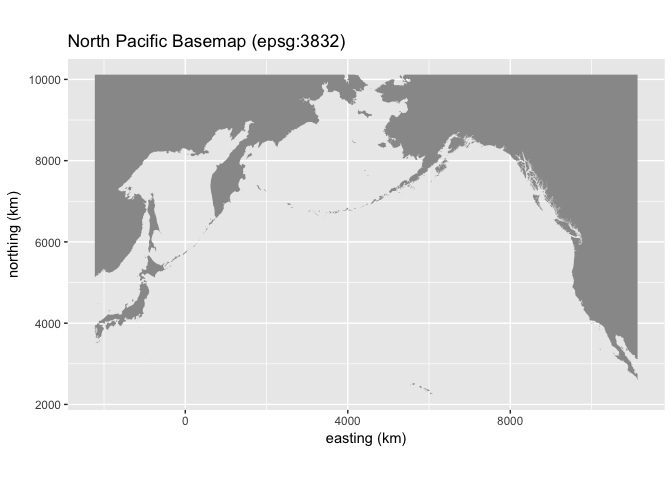
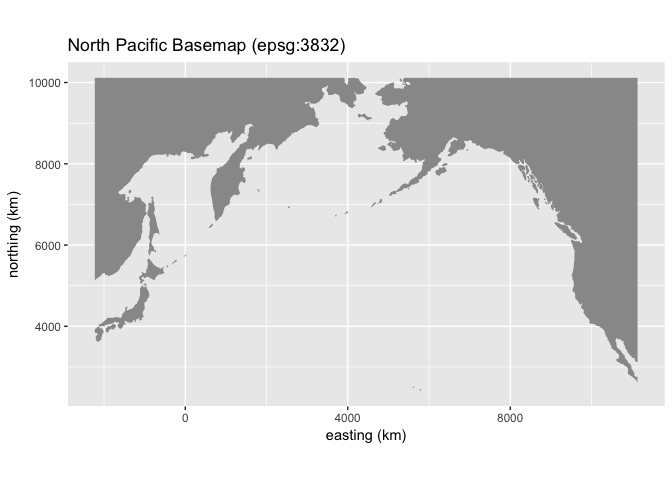
ADD SF SUPPORT; SIMPLIFY AS DEFAULT
added the option to return an sf (simple features) object. Also now rely on the rmapshaper package to simplify the returned output for better performance.

diff --git a/README.md b/README.md
@@ -59,6 +59,11 @@ Fortify for ggplot2
 
 By default all of the basemap objects are returned as a `data.frame` that has been *fortified* via the `broom::tidy()` function. If you would like, instead, for the object to be returned as a *SpatialPolygonsDataFrame* for use with `plot()` or `sp::spplot()` then the `fortify` parameter should be specified as `FALSE`.
 
+Simplified for Improved Performance
+-----------------------------------
+
+The `rmapshaper::ms_simplify` function is applied to the returned objects by default. This improves performance for plotting and should suffice for most users. However, the original integrity of the GSHHG data will be changed. Any uses of `nPacMaps` for analytical purposes (e.g. calculating distance to shoreline, least-cost path creation around land) should consider whether passing `simplify=FALSE` would be more appropriate.
+
 Additional Utility Functions
 ----------------------------
 
@@ -79,6 +84,10 @@ library(nPacMaps)
 npac_base <- nPacMaps::npac()
 #> Data are polygon data
 #> Rgshhs: clipping 7 of 2251 polygons ...
+#> Warning in extract_gshhg(xlims = xlims, ylims = ylims, resolution =
+#> resolution, : nPacMaps now returns a polygon that has been simplified
+#> via the rmapshaper package. This should improve plotting performance. Set
+#> simplify = FALSE if you want to maintain the original gshhg shorelines.
 
 npac_plot <- ggplot() + 
   geom_polygon(data = npac_base,
@@ -104,6 +113,10 @@ library(nPacMaps)
 calcur_base <- nPacMaps::calcur()
 #> Data are polygon data
 #> Rgshhs: clipping 8 of 471 polygons ...
+#> Warning in extract_gshhg(xlims = xlims, ylims = ylims, resolution =
+#> resolution, : nPacMaps now returns a polygon that has been simplified
+#> via the rmapshaper package. This should improve plotting performance. Set
+#> simplify = FALSE if you want to maintain the original gshhg shorelines.
 
 calcur_plot <- ggplot() + 
   geom_polygon(data = calcur_base,
@@ -129,6 +142,10 @@ library(nPacMaps)
 bering_base <- nPacMaps::bering()
 #> Data are polygon data
 #> Rgshhs: clipping 12 of 2118 polygons ...
+#> Warning in extract_gshhg(xlims = xlims, ylims = ylims, resolution =
+#> resolution, : nPacMaps now returns a polygon that has been simplified
+#> via the rmapshaper package. This should improve plotting performance. Set
+#> simplify = FALSE if you want to maintain the original gshhg shorelines.
 
 bering_plot <- ggplot() + 
   geom_polygon(data = bering_base,
@@ -154,6 +171,10 @@ library(nPacMaps)
 us_arctic_base <- nPacMaps::us_arctic()
 #> Data are polygon data
 #> Rgshhs: clipping 10 of 483 polygons ...
+#> Warning in extract_gshhg(xlims = xlims, ylims = ylims, resolution =
+#> resolution, : nPacMaps now returns a polygon that has been simplified
+#> via the rmapshaper package. This should improve plotting performance. Set
+#> simplify = FALSE if you want to maintain the original gshhg shorelines.
 
 us_arctic_plot <- ggplot() + 
   geom_polygon(data = us_arctic_base,
@@ -179,6 +200,10 @@ library(nPacMaps)
 ak_base <- nPacMaps::alaska()
 #> Data are polygon data
 #> Rgshhs: clipping 5 of 1380 polygons ...
+#> Warning in extract_gshhg(xlims = xlims, ylims = ylims, resolution =
+#> resolution, : nPacMaps now returns a polygon that has been simplified
+#> via the rmapshaper package. This should improve plotting performance. Set
+#> simplify = FALSE if you want to maintain the original gshhg shorelines.
 
 ak_plot <- ggplot() + 
   geom_polygon(data = ak_base,
@@ -231,6 +256,10 @@ map_limits <- nPacMaps::ggExpansion(harborSeal,x = "longitude",y = "latitude",
 ak_base <- nPacMaps::alaska(resolution = "f")
 #> Data are polygon data
 #> Rgshhs: clipping 5 of 7494 polygons ...
+#> Warning in extract_gshhg(xlims = xlims, ylims = ylims, resolution =
+#> resolution, : nPacMaps now returns a polygon that has been simplified
+#> via the rmapshaper package. This should improve plotting performance. Set
+#> simplify = FALSE if you want to maintain the original gshhg shorelines.
 
 ak_plot <- ggplot() + 
   geom_polygon(data = ak_base,
